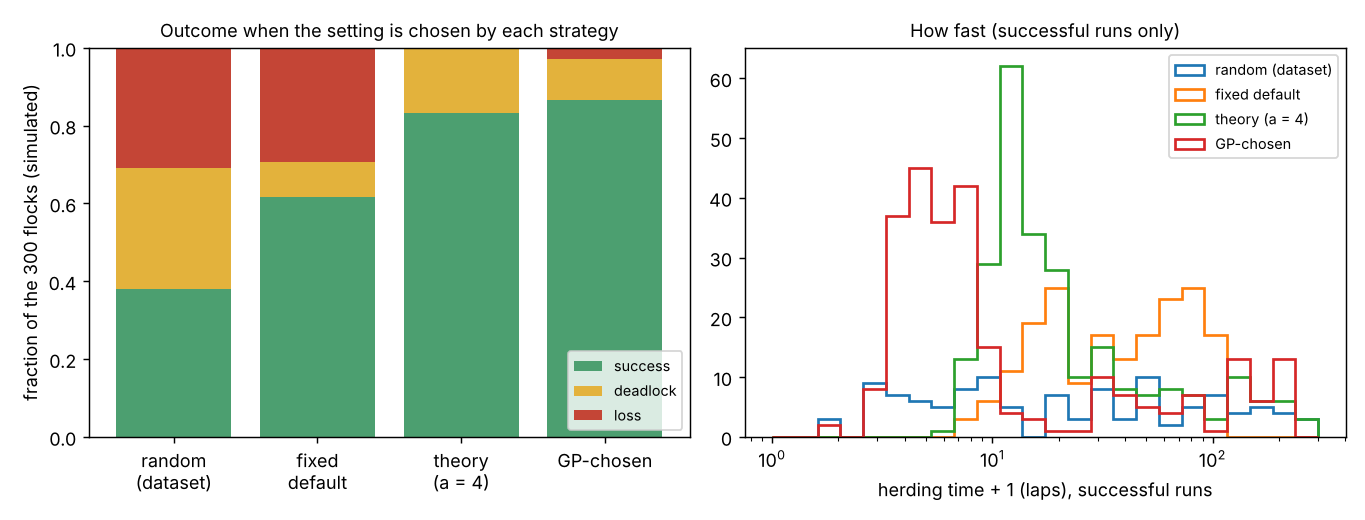
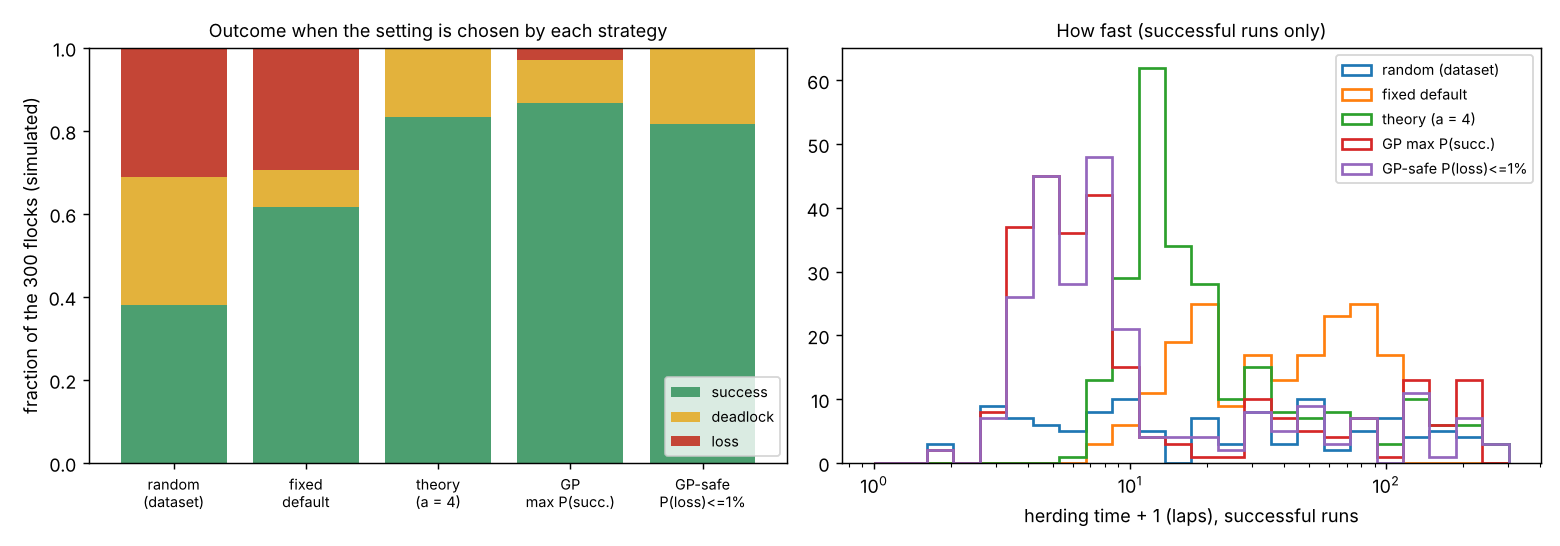
Controller choice: risk-aware GP-safe matches the theory rule's zero losses and herds 2.3x faster (Wilcoxon p = 9e-24)
Claude-Session: https://claude.ai/code/session_01GFa46iTYsWFUdyGmf1m55y

Changed region(s): [[0.0, 0.0308, 1.0, 0.9538], [0.6462, 0.9231, 0.8923, 0.9846], [0.8308, 0.5538, 0.8923, 0.5846]]

diff --git a/models/control_choice.py b/models/control_choice.py
@@ -55,8 +55,46 @@ def summary(cls, T_h):
                 mean_time_capped=float(np.mean(np.where(cls == "success", T_h, LAPS))))
 
 
+def plot(out, res):
+    import matplotlib
+    matplotlib.use("Agg")
+    import matplotlib.pyplot as plt
+    fig, axes = plt.subplots(1, 2, figsize=(12, 4.2))
+    keys = ["original", "fixed", "theory", "gp", "gp_safe"]
+    labs = ["random\n(dataset)", "fixed\ndefault", "theory\n(a = 4)", "GP\nmax P(succ.)", "GP-safe\nP(loss)<=1%"]
+    bottom = np.zeros(len(keys))
+    for c, col in zip(CLASSES, ["#4c9f70", "#e3b23c", "#c44536"]):
+        v = np.array([out[k][c] for k in keys]); axes[0].bar(labs, v, bottom=bottom, color=col, label=c); bottom += v
+    axes[0].set_ylabel("fraction of the 300 flocks (simulated)"); axes[0].legend(fontsize=8, loc="lower right")
+    axes[0].tick_params(axis="x", labelsize=8)
+    axes[0].set_title("Outcome when the setting is chosen by each strategy", fontsize=10)
+    for k, lab in zip(keys, labs):
+        Th = res[k][1]; Th = Th[np.isfinite(Th)]
+        axes[1].hist(Th + 1, bins=np.geomspace(1, 301, 25), histtype="step", lw=1.5, label=lab.replace("\n", " "))
+    axes[1].set_xscale("log"); axes[1].set_xlabel("herding time + 1 (laps), successful runs"); axes[1].legend(fontsize=8)
+    axes[1].set_title("How fast (successful runs only)", fontsize=10)
+    fig.tight_layout(); fig.savefig(os.path.join(OUT, "control.png"), dpi=130)
+
+
+def paired_time_test(res, a, b):
+    """Wilcoxon signed-rank test of herding times on the flocks where both strategies succeed."""
+    from scipy.stats import wilcoxon
+    both = (res[a][0] == "success") & (res[b][0] == "success")
+    ta, tb = res[a][1][both], res[b][1][both]
+    return dict(n_both=int(both.sum()), median_a=float(np.median(ta)), median_b=float(np.median(tb)),
+                frac_a_faster=float(np.mean(ta < tb)), p_value=float(wilcoxon(ta, tb).pvalue))
+
+
 if __name__ == "__main__":
     os.makedirs(OUT, exist_ok=True)
+    if sys.argv[1:] == ["--plot"]:          # redraw + paired time tests from the saved results
+        out = json.load(open(os.path.join(OUT, "metrics.json")))
+        z = np.load(os.path.join(OUT, "choices.npz"), allow_pickle=True)
+        res = {k: (z[f"cls_{k}"], z[f"T_{k}"]) for k in ("original", "fixed", "theory", "gp", "gp_safe")}
+        out["paired_time"] = {f"{a}_vs_{b}": paired_time_test(res, a, b) for a, b in (("gp_safe", "theory"), ("gp", "theory"))}
+        print(out["paired_time"])
+        json.dump(out, open(os.path.join(OUT, "metrics.json"), "w"), indent=1)
+        plot(out, res); sys.exit()
     X, names, y, T_h, meta = arxiv_table()
     d = load("arxiv")
     tr, te = test_split(y, meta["N"], SEED)
@@ -120,21 +158,6 @@ if __name__ == "__main__":
     json.dump(out, open(os.path.join(OUT, "metrics.json"), "w"), indent=1)
     np.savez_compressed(os.path.join(OUT, "choices.npz"), flocks=flocks, **{f"choice_{k}": v for k, v in choice.items()},
                         **{f"cls_{k}": v[0] for k, v in res.items()}, **{f"T_{k}": v[1] for k, v in res.items()})
-
-    import matplotlib
-    matplotlib.use("Agg")
-    import matplotlib.pyplot as plt
-    fig, axes = plt.subplots(1, 2, figsize=(10.5, 4))
-    keys = ["original", "fixed", "theory", "gp", "gp_safe"]
-    labs = ["random\n(dataset)", "fixed\ndefault", "theory\n(a = 4)", "GP\nmax P(success)", "GP-safe\nP(loss) <= 1 %"]
-    bottom = np.zeros(len(keys))
-    for c, col in zip(CLASSES, ["#4c9f70", "#e3b23c", "#c44536"]):
-        v = np.array([out[k][c] for k in keys]); axes[0].bar(labs, v, bottom=bottom, color=col, label=c); bottom += v
-    axes[0].set_ylabel("fraction of the 300 flocks (simulated)"); axes[0].legend(fontsize=8, loc="lower right")
-    axes[0].set_title("Outcome when the setting is chosen by each strategy", fontsize=10)
-    for k, lab in zip(keys, labs):
-        Th = res[k][1]; Th = Th[np.isfinite(Th)]
-        axes[1].hist(Th + 1, bins=np.geomspace(1, 301, 25), histtype="step", lw=1.5, label=lab.replace("\n", " "))
-    axes[1].set_xscale("log"); axes[1].set_xlabel("herding time + 1 (laps), successful runs"); axes[1].legend(fontsize=8)
-    axes[1].set_title("How fast (successful runs only)", fontsize=10)
-    fig.tight_layout(); fig.savefig(os.path.join(OUT, "control.png"), dpi=130)
+    out["paired_time"] = {f"{a}_vs_{b}": paired_time_test(res, a, b) for a, b in (("gp_safe", "theory"), ("gp", "theory"))}
+    json.dump(out, open(os.path.join(OUT, "metrics.json"), "w"), indent=1)
+    plot(out, res)

diff --git a/results/control/README.md b/results/control/README.md
@@ -1,0 +1,31 @@
+# Using the model: choosing the pursuer settings for a given flock (checked by simulation)
+
+Code: `models/control_choice.py`. Numbers [measured]: `metrics.json`. Figure: `control.png`. Choices: `choices.npz`.
+
+Set-up: 300 multi-evader flocks from the test set (their start positions are kept). For each flock a strategy chooses
+the pursuer settings q = k1 R and beta = k k1^3 / w (15 x 15 grid); every choice is then SIMULATED (300 laps).
+
+| strategy | success | deadlock | loss | median herding time (laps) |
+|---|---|---|---|---|
+| random (the dataset's setting) | 38.0 % | 31.0 % | 31.0 % | 18.5 |
+| fixed default (q = 4, beta = 1) | 61.7 % | 9.0 % | 29.3 % | 37 |
+| theory-guided (arXiv condition with margin a = 4, beta = 1) | 83.3 % | 16.7 % | **0 %** | 15 |
+| GP: max P(success), then fastest (cure model) | **86.7 %** | 10.3 % | 3.0 % | 6 |
+| **GP-safe**: as GP, only where P(loss) <= 1 % | 81.7 % | 18.3 % | **0 %** | **6** |
+
+Paired tests on the same flocks:
+- GP vs theory: more successes (10 flocks only GP succeeds, 0 only theory; exact McNemar p = 0.002) but also more
+  losses (9 vs 0; p = 0.004): maximising P(success) alone takes risks.
+- GP-safe vs theory: same losses (0 and 0); success 81.7 % vs 83.3 % (5 flocks only theory succeeds, 0 only GP-safe;
+  p = 0.06, not significant at 5 %); on the 245 flocks where both succeed, GP-safe herds in a median of 6 laps vs 14
+  and is faster in 88 % of them (Wilcoxon signed-rank p = 9e-24).
+
+Plain words:
+- Using the model to choose the settings changes the outcome a lot compared with random settings (38 % -> 82-87 %).
+- The theory gives a good, safe rule of thumb (choose q so that a = 4): no losses. This is a positive result for the theory.
+- The risk-aware model choice keeps that safety (no losses) and herds about 2.3x faster; a choice that only maximises
+  the success probability gets slightly more successes but loses evaders in 3 % of flocks. Same lesson as the active
+  learning: the decision rule must include the cost of the worst mistake.
+
+Limits: one grid of 225 settings; beta = 1 for the theory rule is our choice (the theorem says nothing about beta);
+herding time in laps (a lap is 2 pi / w, so a faster w also shortens a lap in seconds).
